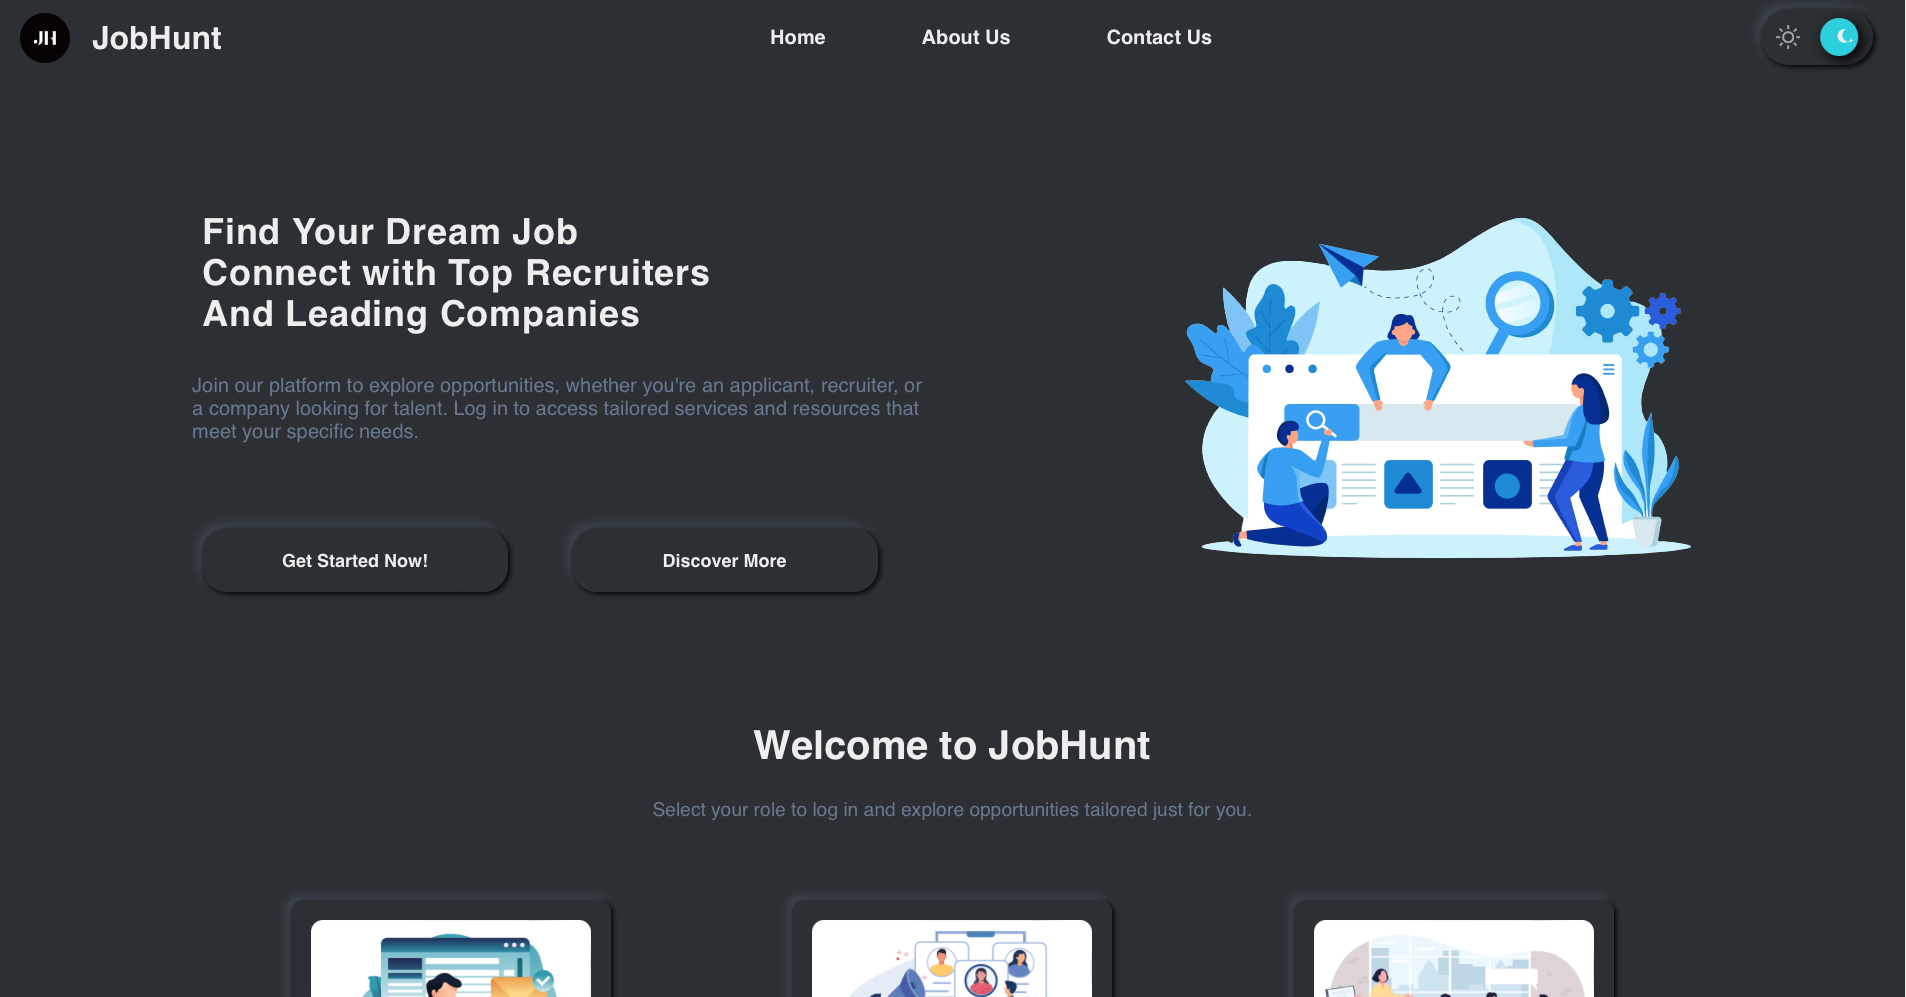
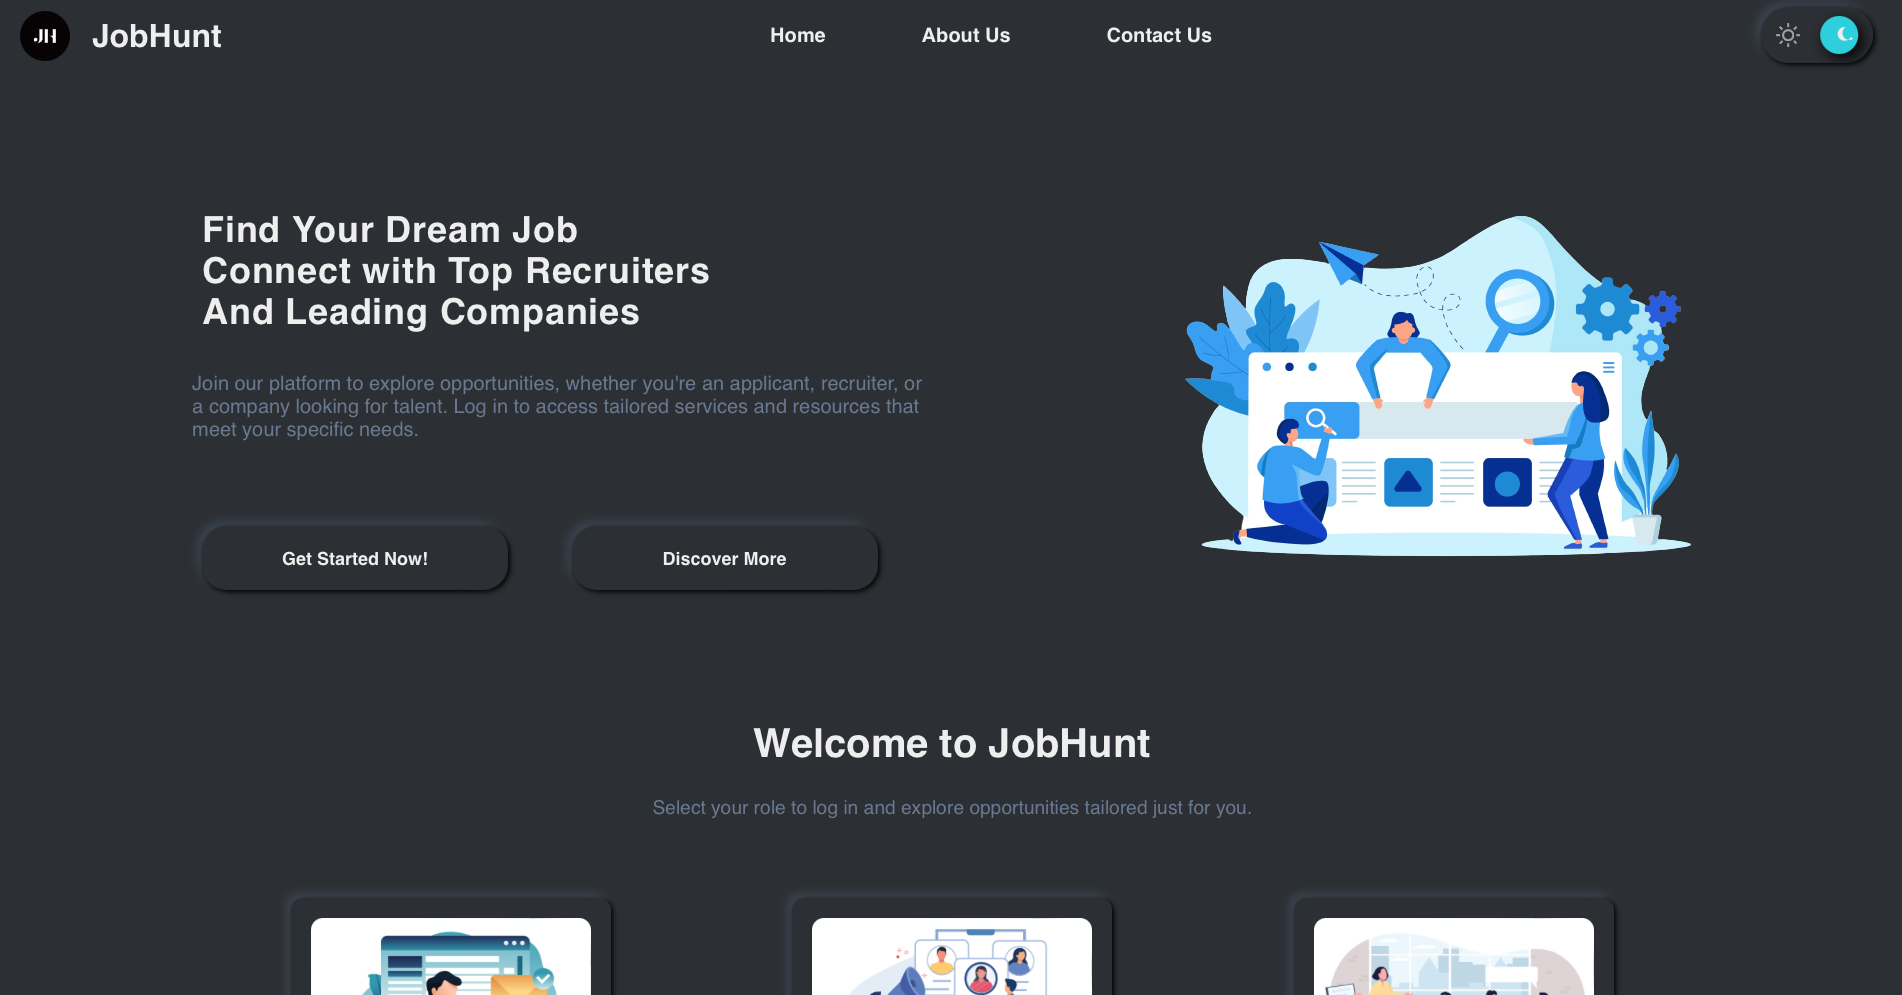
modified sections

diff --git a/src/pages/Achievements.js b/src/pages/Achievements.js
@@ -1,12 +1,82 @@
-import React from 'react';
+import React, { useState } from 'react';
 
-const Achievements = () => {
-  return (
-    <div>
-      <h1>Achievements</h1>
-      <p>List your achievements here.</p>
-    </div>
-  );
+const projects = [
+    {
+        name: 'HackerRank Certification',
+        link: 'https://www.hackerrank.com/certificates/da98cae3218d',
+        image: `${process.env.PUBLIC_URL}/hackerrank.png`
+    },
+    {
+        name: 'Coursera Web Development Certification',
+        link: 'https://coursera.org/share/291d437b5ee1771947c7ca7a9fb1c6cd',
+        image: `${process.env.PUBLIC_URL}/webres.png`
+    },
+    {
+        name: 'Coursera Data Algorithms Certification',
+        link: 'https://coursera.org/share/d3353898473c4d73273fcb28974662b4',
+        image: `${process.env.PUBLIC_URL}/algo.png`
+    },
+    {
+        name: 'Coursera Git and Github Certification',
+        link: 'https://coursera.org/share/cea774c7b6e4194f33f1ad89a3a77eeb',
+        image: `${process.env.PUBLIC_URL}/git.png`
+    },
+    {
+        name: 'Coursera Python Certification',
+        link: 'https://coursera.org/share/443cec25825ebe79987c5de6ee5e58e8',
+        image: `${process.env.PUBLIC_URL}/python.png`
+    },
+    {
+        name: 'FreeCodeCamp Web Development Certification',
+        link: 'https://www.freecodecamp.org/Ikansh',
+        image: `${process.env.PUBLIC_URL}/webdev.png`
+    },
+    {
+        name: 'Frontend Web Dev Certification',
+        link: 'https://linkedin.com/in/ikanshgoyal',
+        image: `${process.env.PUBLIC_URL}/front.png`
+    },
+    {
+        name: 'FreeCodeCamp JS DSA Certification',
+        link: 'https://www.freecodecamp.org/Ikansh',
+        image: `${process.env.PUBLIC_URL}/js.png`
+    },
+    {
+        name: 'Amazon AWS Certification',
+        link: 'https://linkedin.com/in/ikanshgoyal',
+        image: `${process.env.PUBLIC_URL}/aws.png`
+    }
+];
+
+const Certifications = () => {
+    const [hoveredImage, setHoveredImage] = useState(null);
+
+    return (
+        <div className="projects-container">
+            <div className="projects-title">Certifications</div>
+            <div className='divider1'></div>
+            <ul className="project-list certificate">
+                {projects.map((project, index) => (
+                    <li
+                        key={index}
+                        className="project-item"
+                        onMouseEnter={() => setHoveredImage(project.image)}
+                        onMouseLeave={() => setHoveredImage(null)}
+                        onClick={() => window.open(project.link, '_blank')}
+                    >
+                        {project.name}
+                    </li>
+                ))}
+            </ul>
+            {hoveredImage && (
+                <img
+                    className="project-image"
+                    src={hoveredImage}
+                    alt="Project"
+                />
+            )}
+        </div>
+    );
 };
 
-export default Achievements;
+export default Certifications;

diff --git a/src/App.css b/src/App.css
@@ -4,7 +4,9 @@ html,
 .App {
 	height: 100lvh;
 	width: 100lvw;
-	margin: 0;
+	overflow: hidden; 
+    margin: 0;
+    padding: 0;
 }
 
 .App {
@@ -23,6 +25,7 @@ html,
 	width: 100%;
 	height: 100%;
 	z-index: 0;
+	overflow: hidden;
 }
 
 .navbar {
@@ -85,7 +88,7 @@ html,
 	position: absolute;
 	top: 0;
 	left: 0;
-	height: 100%;
+	height: 105%;
 	width: 100%;
 	background-color: #202126;
 	border-left: 2px solid #f3f2f9;
@@ -95,7 +98,7 @@ html,
 
 .options {
 	width: 700px;
-	height: 60px;
+	height: 80px;
 	top: 60%;
 	left: 55%;
 	position: absolute;
@@ -103,7 +106,7 @@ html,
 
 .option {
 	padding: 12px 20px;
-	margin-top: 20px;
+	margin-top: 40px;
 	margin-right: 40px;
 	border-radius: 12px;
 	color: #f3f2f9;
@@ -295,6 +298,7 @@ html,
 	position: absolute;
 	left: 0px;
 	padding: 5%;
+	padding-top: 150px;
 	gap: 0px;
 	font-family: Arial Rounded MT Bold;
 	color: #f3f2f9;
@@ -483,7 +487,7 @@ input::placeholder, textarea::placeholder {
 }
 
 .divider1 {
-	width: 30%;
+	width: 90%;
 	height: 2px;
 	background: #f3f2f9;
 	margin: 0px 0;
@@ -496,26 +500,50 @@ input::placeholder, textarea::placeholder {
 .project-list {
     list-style: none;
     padding: 0;
-	padding-top: 40px;
     margin: 0;
-    width: 60%;
+	margin-top: 80px;
+    width: 450px;
     position: absolute;
     left: 5%;
     top: 15%;
     max-height: 70vh;
     overflow-y: auto;
 	overflow-x: hidden;
+	scrollbar-width: thin; 
+    scrollbar-color: #f2f3f9 #606887;
+	direction: rtl;
+	display: flex;
+	flex-direction: column;
+	align-items: end;
+}
+
+.project-list::-webkit-scrollbar {
+    width: 12px; 
+	border-radius: 12px;
+}
+
+.project-list::-webkit-scrollbar-thumb {
+    background: #c1c7d0; 
+    border-radius: 12px; 
+    box-shadow: inset 1px 1px 3px #b6b8be, inset -1px -1px 3px #ffffff; 
+}
+
+.project-list::-webkit-scrollbar-track {
+    background: #1d1e22; 
+    border-radius: 12px; 
 }
 
 .project-item {
     font-size: 1.5rem;
-    margin: 20px 0;
+    margin: 10px 0;
 	padding: 0px;
+	padding-left: 20px;
     color: #f3f2f9;
     cursor: pointer;
     transition: color 0.3s ease, transform 0.3s ease;
     position: relative;
 	white-space: nowrap;
+	direction: ltr;
 }
 
 .project-item:hover {
@@ -541,6 +569,13 @@ input::placeholder, textarea::placeholder {
 
 .project-item:hover ~ .project-image {
     opacity: 1;
+}
+
+.certificate {
+	width: 580px;
+	padding-left: 0px;
+	margin-left: 0px;
+	font-size: 1rem;
 }
 
 
@@ -599,4 +634,18 @@ input::placeholder, textarea::placeholder {
 		opacity: 0;
 		transform: scale(0.8);
 	}
+}
+
+/* @media (max-width: 768px) {
+    .spline-container {
+        transform: scale(0.8); 
+        transform-origin: top left; 
+    }
+} */
+
+@media (max-width: 480px) {
+    .spline-container {
+        transform: scale(0.6); /* Further adjust for very small screens */
+        transform-origin: top left;
+    }
 }

diff --git a/src/App.js b/src/App.js
@@ -1,5 +1,5 @@
 import React from "react";
-import { BrowserRouter as Router, Route, Routes } from "react-router-dom";
+import { BrowserRouter as Router, Route, Routes, useLocation } from "react-router-dom";
 import CustomCursor from "./components/CustomCursor";
 import StartScene from "./SplineScene";
 import Home from "./pages/Home";
@@ -7,19 +7,26 @@ import Home from "./pages/Home";
 // import Contact from './pages/Contact';
 
 const App = () => {
+  const location = useLocation();
+  const showCustomCursor = location.pathname !== "/";
+
   return (
-    <Router>
-		<CustomCursor />
-      <div>
-        <Routes>
-          <Route path="/" element={<StartScene />} />
-          <Route path="/home" element={<Home />} />
-          {/* <Route path="/about" element={<About />} />
-          <Route path="/contact" element={<Contact />} /> */}
-        </Routes>
-      </div>
-    </Router>
+    <>
+      {showCustomCursor && <CustomCursor />}
+      <Routes>
+        <Route path="/" element={<StartScene />} />
+        <Route path="/home" element={<Home />} />
+        {/* <Route path="/about" element={<About />} />
+        <Route path="/contact" element={<Contact />} /> */}
+      </Routes>
+    </>
   );
 };
 
-export default App;
+const AppWrapper = () => (
+  <Router>
+    <App />
+  </Router>
+);
+
+export default AppWrapper;

diff --git a/src/pages/Home.js b/src/pages/Home.js
@@ -2,7 +2,7 @@ import React, { useEffect, useRef, useState } from 'react';
 import { FaBars, FaTimes } from 'react-icons/fa';
 import '../App.css';
 import Projects from './Projects';
-import Achievements from './Achievements';
+import Certifications from './Achievements';
 import Skills from './Skills';
 import About from './About';
 import Contact from './Contact';
@@ -106,7 +106,7 @@ const Home = () => {
 					<div className={`menu-items ${menuClosing ? 'close' : ''}`}>
 						<div onClick={() => openOverlay(null)}>Home</div>
 						<div onClick={() => openOverlay(<Projects />)}>Projects</div>
-						<div onClick={() => openOverlay(<Achievements />)}>Achievements</div>
+						<div onClick={() => openOverlay(<Certifications />)}>Certifications</div>
 						<div onClick={() => openOverlay(<Skills />)}>Skills</div>
 						<div onClick={() => openOverlay(<About />)}>About</div>
 						<div onClick={() => openOverlay(<Contact />)}>Contact</div>
